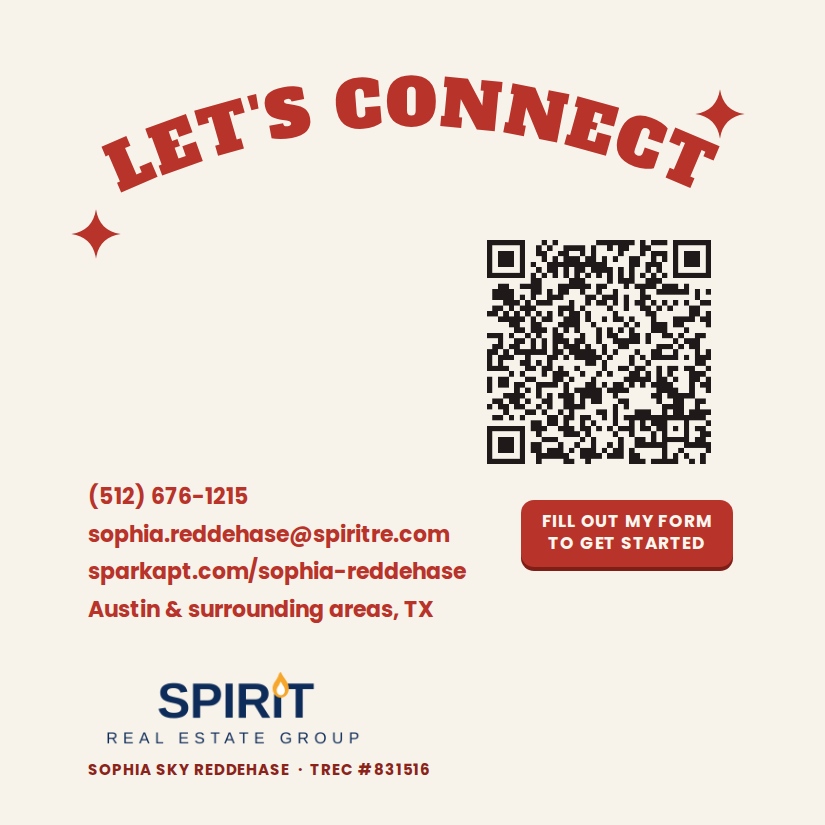
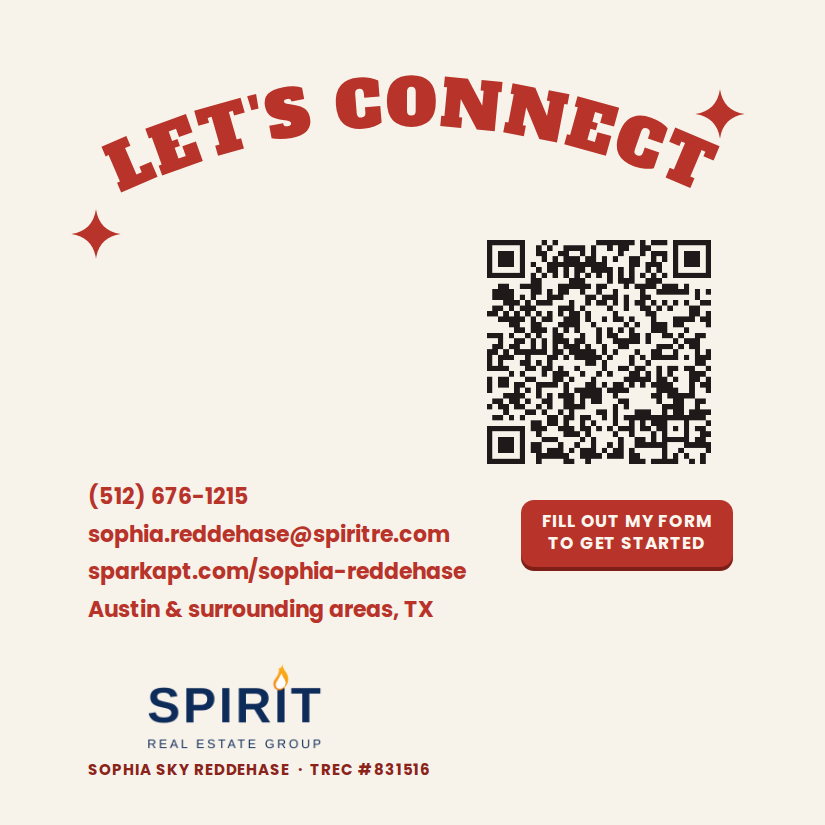
Redraw the Spirit flame, and fill the vertical card's dead band
The logo image the user sent reaches the session visually but never lands on
disk, so the mark is still a redraw — but a cleaner copy of the original
showed three things wrong with it. The flame was a rounded droplet with an
oval centre, which read as water rather than fire; it sat low enough to cover
the top of the I, where the original clears the cap line and leaves the stem
visible; and "REAL ESTATE GROUP" ran half again wider than "SPIRIT", where in
the original the two are exactly the same width.

The flame is now drawn as a flame: a leaning tip, a shoulder on the left, an
inner negative tongue that comes to a single point, and the warm gradient the
original carries. It sits centred over the I to within a pixel (flame centre
809.5, stem centre 810.5 in the 1240px render). The viewBox extends above the
cap line to give it room, then crops the dead space under the all-caps
subtitle so the rendered image grows only 10% rather than 20%. The box stays
620 wide with a 74 cap, so the 0.1194 cap-to-width ratio the TREC sizing
depends on is unchanged. Wordmark tracking goes to +6 and the subtitle to
26px/5.7 so both measure 365.2 wide, aligned at the same x.

Even at 10% taller, a bottom-anchored brokermark grows upward into whatever
is above it. A browser-side check against the logo's actual ink — the flame's
column, not the transparent box — found two backs colliding and one sitting
26px off the bottom, inside the 37.5px bleed, where the licence line would
[…]

Changed region(s): [[0.1212, 0.7879, 0.4242, 0.9091]]

diff --git a/business_cards/cards_v2/11_exact_groovy_social/front.html b/business_cards/cards_v2/11_exact_groovy_social/front.html
@@ -78,6 +78,10 @@
     transform: translate(-50%, -50%) rotate(-90deg);
   }
 
+
+  /* the orange band between the top wave and the arch was dead space */
+  .skyline { position: absolute; left: 0; top: 0; }
+
   .compliance {
     position: absolute;
     left: 0; right: 0;
@@ -103,6 +107,71 @@
     <svg class="waves" width="675" height="1125" viewBox="0 0 675 1125" xmlns="http://www.w3.org/2000/svg">
       <path fill="#f6b4d0" d="M0,0 L675,0 L675,118 C 520,178 400,88 250,146 C 150,184 70,138 0,166 Z"/>
       <path fill="#f6b4d0" d="M0,1125 L675,1125 L675,1012 C 520,952 400,1042 250,984 C 150,946 70,992 0,964 Z"/>
+    </svg>
+
+    <!-- apartment row filling the empty orange band above the arch -->
+    <svg class="skyline" width="675" height="300" viewBox="0 0 675 300"
+         xmlns="http://www.w3.org/2000/svg">
+      <rect x="58" y="224" width="52" height="62" rx="4" fill="#fff6ef"/>
+      <rect x="72" y="236" width="8" height="8" rx="2" fill="#e8532e"/>
+      <rect x="88" y="236" width="8" height="8" rx="2" fill="#e8532e"/>
+      <rect x="72" y="251" width="8" height="8" rx="2" fill="#e8532e"/>
+      <rect x="88" y="251" width="8" height="8" rx="2" fill="#e8532e"/>
+      <rect x="72" y="266" width="8" height="8" rx="2" fill="#e8532e"/>
+      <rect x="88" y="266" width="8" height="8" rx="2" fill="#e8532e"/>
+      <rect x="116" y="198" width="44" height="88" rx="4" fill="#fff6ef"/>
+      <rect x="126" y="210" width="8" height="8" rx="2" fill="#e8532e"/>
+      <rect x="142" y="210" width="8" height="8" rx="2" fill="#e8532e"/>
+      <rect x="126" y="225" width="8" height="8" rx="2" fill="#e8532e"/>
+      <rect x="142" y="225" width="8" height="8" rx="2" fill="#e8532e"/>
+      <rect x="126" y="240" width="8" height="8" rx="2" fill="#e8532e"/>
+      <rect x="142" y="240" width="8" height="8" rx="2" fill="#e8532e"/>
+      <rect x="126" y="255" width="8" height="8" rx="2" fill="#e8532e"/>
+      <rect x="142" y="255" width="8" height="8" rx="2" fill="#e8532e"/>
+      <path d="M166 286 L166 268.0 A34.0 34.0 0 0 1 234 268.0 L234 286 Z" fill="#fff6ef"/>
+      <rect x="181" y="254" width="8" height="8" rx="2" fill="#e8532e"/>
+      <rect x="196" y="254" width="8" height="8" rx="2" fill="#e8532e"/>
+      <rect x="211" y="254" width="8" height="8" rx="2" fill="#e8532e"/>
+      <rect x="181" y="269" width="8" height="8" rx="2" fill="#e8532e"/>
+      <rect x="196" y="269" width="8" height="8" rx="2" fill="#e8532e"/>
+      <rect x="211" y="269" width="8" height="8" rx="2" fill="#e8532e"/>
+      <rect x="240" y="190" width="48" height="96" rx="4" fill="#fff6ef"/>
+      <rect x="252" y="202" width="8" height="8" rx="2" fill="#e8532e"/>
+      <rect x="268" y="202" width="8" height="8" rx="2" fill="#e8532e"/>
+      <rect x="252" y="217" width="8" height="8" rx="2" fill="#e8532e"/>
+      <rect x="268" y="217" width="8" height="8" rx="2" fill="#e8532e"/>
+      <rect x="252" y="232" width="8" height="8" rx="2" fill="#e8532e"/>
+      <rect x="268" y="232" width="8" height="8" rx="2" fill="#e8532e"/>
+      <rect x="252" y="247" width="8" height="8" rx="2" fill="#e8532e"/>
+      <rect x="268" y="247" width="8" height="8" rx="2" fill="#e8532e"/>
+      <rect x="252" y="262" width="8" height="8" rx="2" fill="#e8532e"/>
+      <rect x="268" y="262" width="8" height="8" rx="2" fill="#e8532e"/>
+      <rect x="294" y="218" width="58" height="68" rx="4" fill="#fff6ef"/>
+      <rect x="304" y="230" width="8" height="8" rx="2" fill="#e8532e"/>
+      <rect x="319" y="230" width="8" height="8" rx="2" fill="#e8532e"/>
+      <rect x="334" y="230" width="8" height="8" rx="2" fill="#e8532e"/>
+      <rect x="304" y="245" width="8" height="8" rx="2" fill="#e8532e"/>
+      <rect x="319" y="245" width="8" height="8" rx="2" fill="#e8532e"/>
+      <rect x="334" y="245" width="8" height="8" rx="2" fill="#e8532e"/>
+      <rect x="304" y="260" width="8" height="8" rx="2" fill="#e8532e"/>
+      <rect x="319" y="260" width="8" height="8" rx="2" fill="#e8532e"/>
+      <rect x="334" y="260" width="8" height="8" rx="2" fill="#e8532e"/>
+      <path d="M358 286 L358 227.0 A21.0 21.0 0 0 1 400 227.0 L400 286 Z" fill="#fff6ef"/>
+      <rect x="368" y="226" width="8" height="8" rx="2" fill="#e8532e"/>
+      <rect x="382" y="226" width="8" height="8" rx="2" fill="#e8532e"/>
+      <rect x="368" y="241" width="8" height="8" rx="2" fill="#e8532e"/>
+      <rect x="382" y="241" width="8" height="8" rx="2" fill="#e8532e"/>
+      <rect x="368" y="256" width="8" height="8" rx="2" fill="#e8532e"/>
+      <rect x="382" y="256" width="8" height="8" rx="2" fill="#e8532e"/>
+      <rect x="406" y="230" width="74" height="56" rx="4" fill="#fff6ef"/>
+      <rect x="416" y="242" width="8" height="8" rx="2" fill="#e8532e"/>
+      <rect x="432" y="242" width="8" height="8" rx="2" fill="#e8532e"/>
+      <rect x="446" y="242" width="8" height="8" rx="2" fill="#e8532e"/>
+      <rect x="462" y="242" width="8" height="8" rx="2" fill="#e8532e"/>
+      <rect x="416" y="257" width="8" height="8" rx="2" fill="#e8532e"/>
+      <rect x="432" y="257" width="8" height="8" rx="2" fill="#e8532e"/>
+      <rect x="446" y="257" width="8" height="8" rx="2" fill="#e8532e"/>
+      <rect x="462" y="257" width="8" height="8" rx="2" fill="#e8532e"/>
     </svg>
 
     <div class="arch">

diff --git a/business_cards/cards_v2/11_exact_groovy_social/back.html b/business_cards/cards_v2/11_exact_groovy_social/back.html
@@ -33,6 +33,8 @@
     color: #b8341a;
   }
 
+  .skyline { position: absolute; left: 0; top: 0; }
+
   .site {
     position: absolute;
     left: 0; right: 0;
@@ -95,6 +97,53 @@
       (512) 676-1215<br>
       Austin &amp; surrounding areas, TX
     </div>
+
+    <!-- small echo of the front's skyline, filling the gap between the
+         address block and the URL -->
+    <svg class="skyline" width="675" height="900" viewBox="0 0 675 900"
+         xmlns="http://www.w3.org/2000/svg">
+      <rect x="196" y="838" width="38" height="40" rx="3" fill="#e8532e"/>
+      <rect x="206" y="847" width="6" height="6" rx="1.5" fill="#f6b4d0"/>
+      <rect x="218" y="847" width="6" height="6" rx="1.5" fill="#f6b4d0"/>
+      <rect x="206" y="858" width="6" height="6" rx="1.5" fill="#f6b4d0"/>
+      <rect x="218" y="858" width="6" height="6" rx="1.5" fill="#f6b4d0"/>
+      <rect x="240" y="820" width="32" height="58" rx="3" fill="#e8532e"/>
+      <rect x="248" y="829" width="6" height="6" rx="1.5" fill="#f6b4d0"/>
+      <rect x="258" y="829" width="6" height="6" rx="1.5" fill="#f6b4d0"/>
+      <rect x="248" y="840" width="6" height="6" rx="1.5" fill="#f6b4d0"/>
+      <rect x="258" y="840" width="6" height="6" rx="1.5" fill="#f6b4d0"/>
+      <rect x="248" y="851" width="6" height="6" rx="1.5" fill="#f6b4d0"/>
+      <rect x="258" y="851" width="6" height="6" rx="1.5" fill="#f6b4d0"/>
+      <rect x="248" y="862" width="6" height="6" rx="1.5" fill="#f6b4d0"/>
+      <rect x="258" y="862" width="6" height="6" rx="1.5" fill="#f6b4d0"/>
+      <path d="M278 878 L278 868.0 A24.0 24.0 0 0 1 326 868.0 L326 878 Z" fill="#e8532e"/>
+      <rect x="288" y="859" width="6" height="6" rx="1.5" fill="#f6b4d0"/>
+      <rect x="299" y="859" width="6" height="6" rx="1.5" fill="#f6b4d0"/>
+      <rect x="310" y="859" width="6" height="6" rx="1.5" fill="#f6b4d0"/>
+      <rect x="332" y="816" width="34" height="62" rx="3" fill="#e8532e"/>
+      <rect x="340" y="825" width="6" height="6" rx="1.5" fill="#f6b4d0"/>
+      <rect x="352" y="825" width="6" height="6" rx="1.5" fill="#f6b4d0"/>
+      <rect x="340" y="836" width="6" height="6" rx="1.5" fill="#f6b4d0"/>
+      <rect x="352" y="836" width="6" height="6" rx="1.5" fill="#f6b4d0"/>
+      <rect x="340" y="847" width="6" height="6" rx="1.5" fill="#f6b4d0"/>
+      <rect x="352" y="847" width="6" height="6" rx="1.5" fill="#f6b4d0"/>
+      <rect x="340" y="858" width="6" height="6" rx="1.5" fill="#f6b4d0"/>
+      <rect x="352" y="858" width="6" height="6" rx="1.5" fill="#f6b4d0"/>
+      <rect x="372" y="834" width="42" height="44" rx="3" fill="#e8532e"/>
+      <rect x="379" y="843" width="6" height="6" rx="1.5" fill="#f6b4d0"/>
+      <rect x="390" y="843" width="6" height="6" rx="1.5" fill="#f6b4d0"/>
+      <rect x="401" y="843" width="6" height="6" rx="1.5" fill="#f6b4d0"/>
+      <rect x="379" y="854" width="6" height="6" rx="1.5" fill="#f6b4d0"/>
+      <rect x="390" y="854" width="6" height="6" rx="1.5" fill="#f6b4d0"/>
+      <rect x="401" y="854" width="6" height="6" rx="1.5" fill="#f6b4d0"/>
+      <rect x="379" y="865" width="6" height="6" rx="1.5" fill="#f6b4d0"/>
+      <rect x="390" y="865" width="6" height="6" rx="1.5" fill="#f6b4d0"/>
+      <rect x="401" y="865" width="6" height="6" rx="1.5" fill="#f6b4d0"/>
+      <path d="M420 878 L420 841.0 A15.0 15.0 0 0 1 450 841.0 L450 878 Z" fill="#e8532e"/>
+      <rect x="432" y="841" width="6" height="6" rx="1.5" fill="#f6b4d0"/>
+      <rect x="432" y="852" width="6" height="6" rx="1.5" fill="#f6b4d0"/>
+      <rect x="432" y="863" width="6" height="6" rx="1.5" fill="#f6b4d0"/>
+    </svg>
 
     <div class="site">SPARKAPT.COM/SOPHIA-REDDEHASE</div>
     <div class="brokermark">

diff --git a/business_cards/cards_v2/10_exact_green_checks/back.html b/business_cards/cards_v2/10_exact_green_checks/back.html
@@ -34,17 +34,17 @@
   .body {
     position: absolute;
     left: 78px;
-    top: 316px;
+    top: 300px;
   }
 
-  .icons { display: flex; gap: 17px; margin-bottom: 24px; }
+  .icons { display: flex; gap: 17px; margin-bottom: 10px; }
   .icons svg { display: block; }
 
   .lines {
     font-family: 'Poppins', sans-serif;
     font-weight: 700;
     font-size: 26px;
-    line-height: 1.6;
+    line-height: 1.45;
     color: #f2ebd9;
     letter-spacing: 0.4px;
   }
@@ -74,15 +74,15 @@
   }
   .brokermark {
     position: absolute;
-    left: 78px;  bottom: 26px;
+    left: 78px;  bottom: 46px;
     display: flex;
     flex-direction: column;
     align-items: flex-start;
     gap: 7px;
   }
-  /* 433px wide gives a 52px "SPIRIT" cap against the 94px agent name
+  /* 400px wide gives a 48px "SPIRIT" cap against the 94px agent name
      — inside the half-size floor in 22 TAC 535.155(a)(2), with margin */
-  .brokermark img { width: 433px; height: auto; display: block; }
+  .brokermark img { width: 400px; height: auto; display: block; }
   .brokermark .line {
     font-family: 'Poppins', sans-serif;
     font-weight: 700;

diff --git a/business_cards/cards_v2/12_exact_warped_checks/back.html b/business_cards/cards_v2/12_exact_warped_checks/back.html
@@ -24,17 +24,17 @@
   .body {
     position: absolute;
     left: 78px;
-    top: 314px;
+    top: 306px;
   }
 
-  .icons { display: flex; gap: 16px; margin-bottom: 22px; }
+  .icons { display: flex; gap: 16px; margin-bottom: 12px; }
   .icons svg { display: block; }
 
   .lines {
     font-family: 'Poppins', sans-serif;
     font-weight: 700;
     font-size: 25px;
-    line-height: 1.58;
+    line-height: 1.42;
     color: #3f5a2c;
   }
 
@@ -69,9 +69,9 @@
     align-items: flex-start;
     gap: 7px;
   }
-  /* 424px wide gives a 51px "SPIRIT" cap against the 92px agent name
+  /* 392px wide gives a 47px "SPIRIT" cap against the 92px agent name
      — inside the half-size floor in 22 TAC 535.155(a)(2), with margin */
-  .brokermark img { width: 424px; height: auto; display: block; }
+  .brokermark img { width: 392px; height: auto; display: block; }
   .brokermark .line {
     font-family: 'Poppins', sans-serif;
     font-weight: 700;
